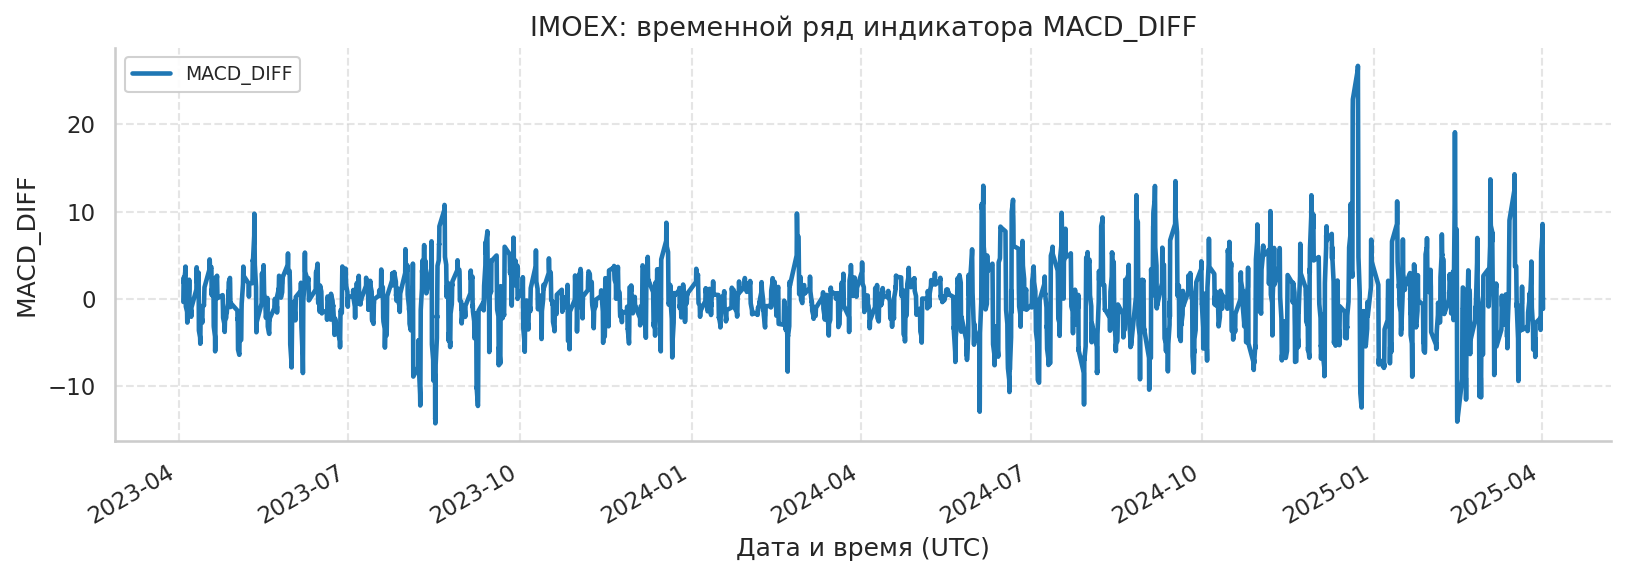
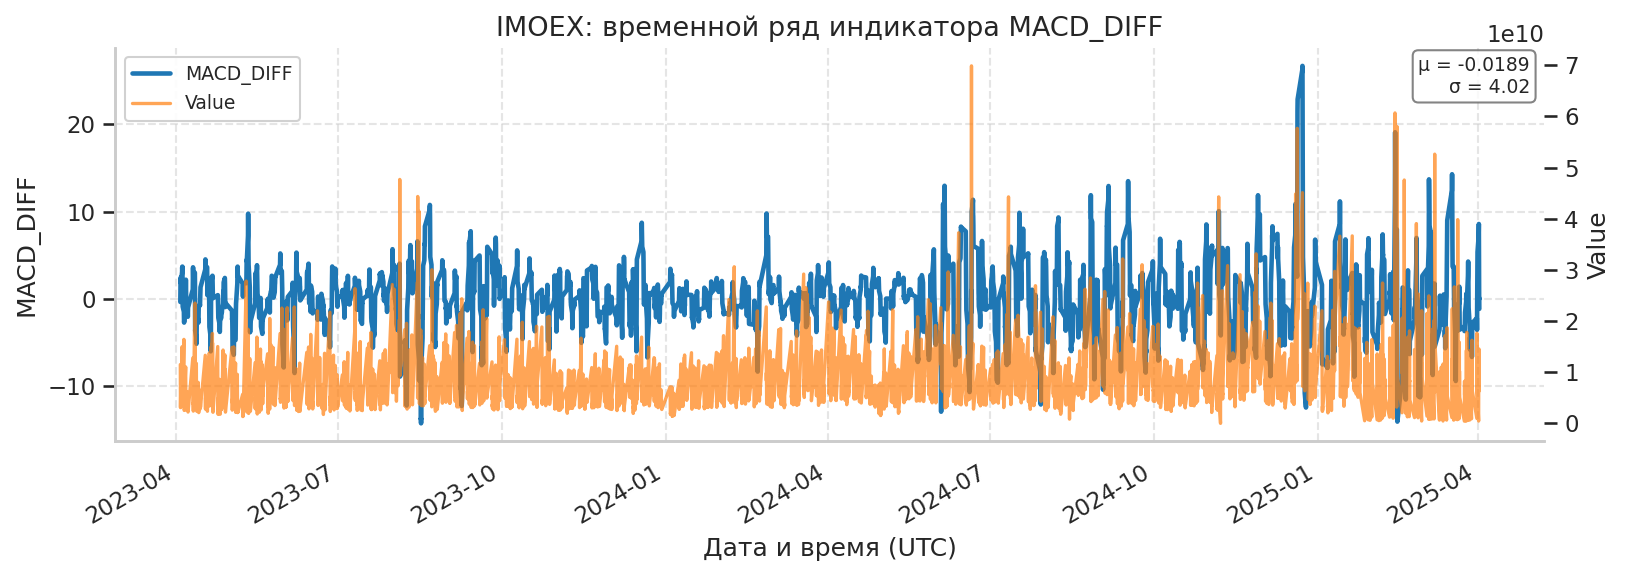
report: annotate indicator series with mean and sigma; add Value time series on secondary axis (GOST style)

diff --git a/tools/build_report.py b/tools/build_report.py
@@ -357,11 +357,56 @@ def main():
                 if s.empty:
                     continue
                 fig, ax = _plt.subplots(figsize=(11, 4))
-                ax.plot(s.index, s.values, label=feat, color="#1f77b4", linewidth=2.2, solid_capstyle="round", solid_joinstyle="round")
+                # Основной ряд: индикатор
+                ax.plot(
+                    s.index,
+                    s.values,
+                    label=feat,
+                    color="#1f77b4",
+                    linewidth=2.2,
+                    solid_capstyle="round",
+                    solid_joinstyle="round",
+                )
+                # Вторичная ось: оборот Value
+                if "Value" in ind_df.columns:
+                    v = ind_df["Value"].loc[s.index].astype(float)
+                    ax2 = ax.twinx()
+                    ax2.grid(False)
+                    ax2.plot(
+                        v.index,
+                        v.values,
+                        label="Value",
+                        color="#ff7f0e",
+                        linewidth=1.6,
+                        alpha=0.7,
+                        solid_capstyle="round",
+                        solid_joinstyle="round",
+                    )
+                    ax2.set_ylabel("Value")
+                    # Совмещённая легенда
+                    lines = ax.get_lines() + ax2.get_lines()
+                    labels = [ln.get_label() for ln in lines]
+                    ax.legend(lines, labels, loc="upper left", fontsize=9)
+                else:
+                    ax.legend(loc="upper left", fontsize=9)
+
+                # Подпись метрик индикатора (среднее и σ)
+                mu = float(s.mean())
+                sd = float(s.std())
+                ax.text(
+                    0.99,
+                    0.98,
+                    f"μ = {mu:.3g}\nσ = {sd:.3g}",
+                    transform=ax.transAxes,
+                    ha="right",
+                    va="top",
+                    fontsize=9,
+                    bbox=dict(facecolor="white", edgecolor="#666666", alpha=0.8, boxstyle="round,pad=0.3"),
+                )
+
                 ax.set_title(f"{tk}: временной ряд индикатора {feat}")
                 ax.set_xlabel("Дата и время (UTC)")
                 ax.set_ylabel(feat)
-                ax.legend(loc="upper left", fontsize=9)
                 fig.autofmt_xdate()
                 fig.tight_layout()
                 fname = f"indicator_series_{feat}.png"
